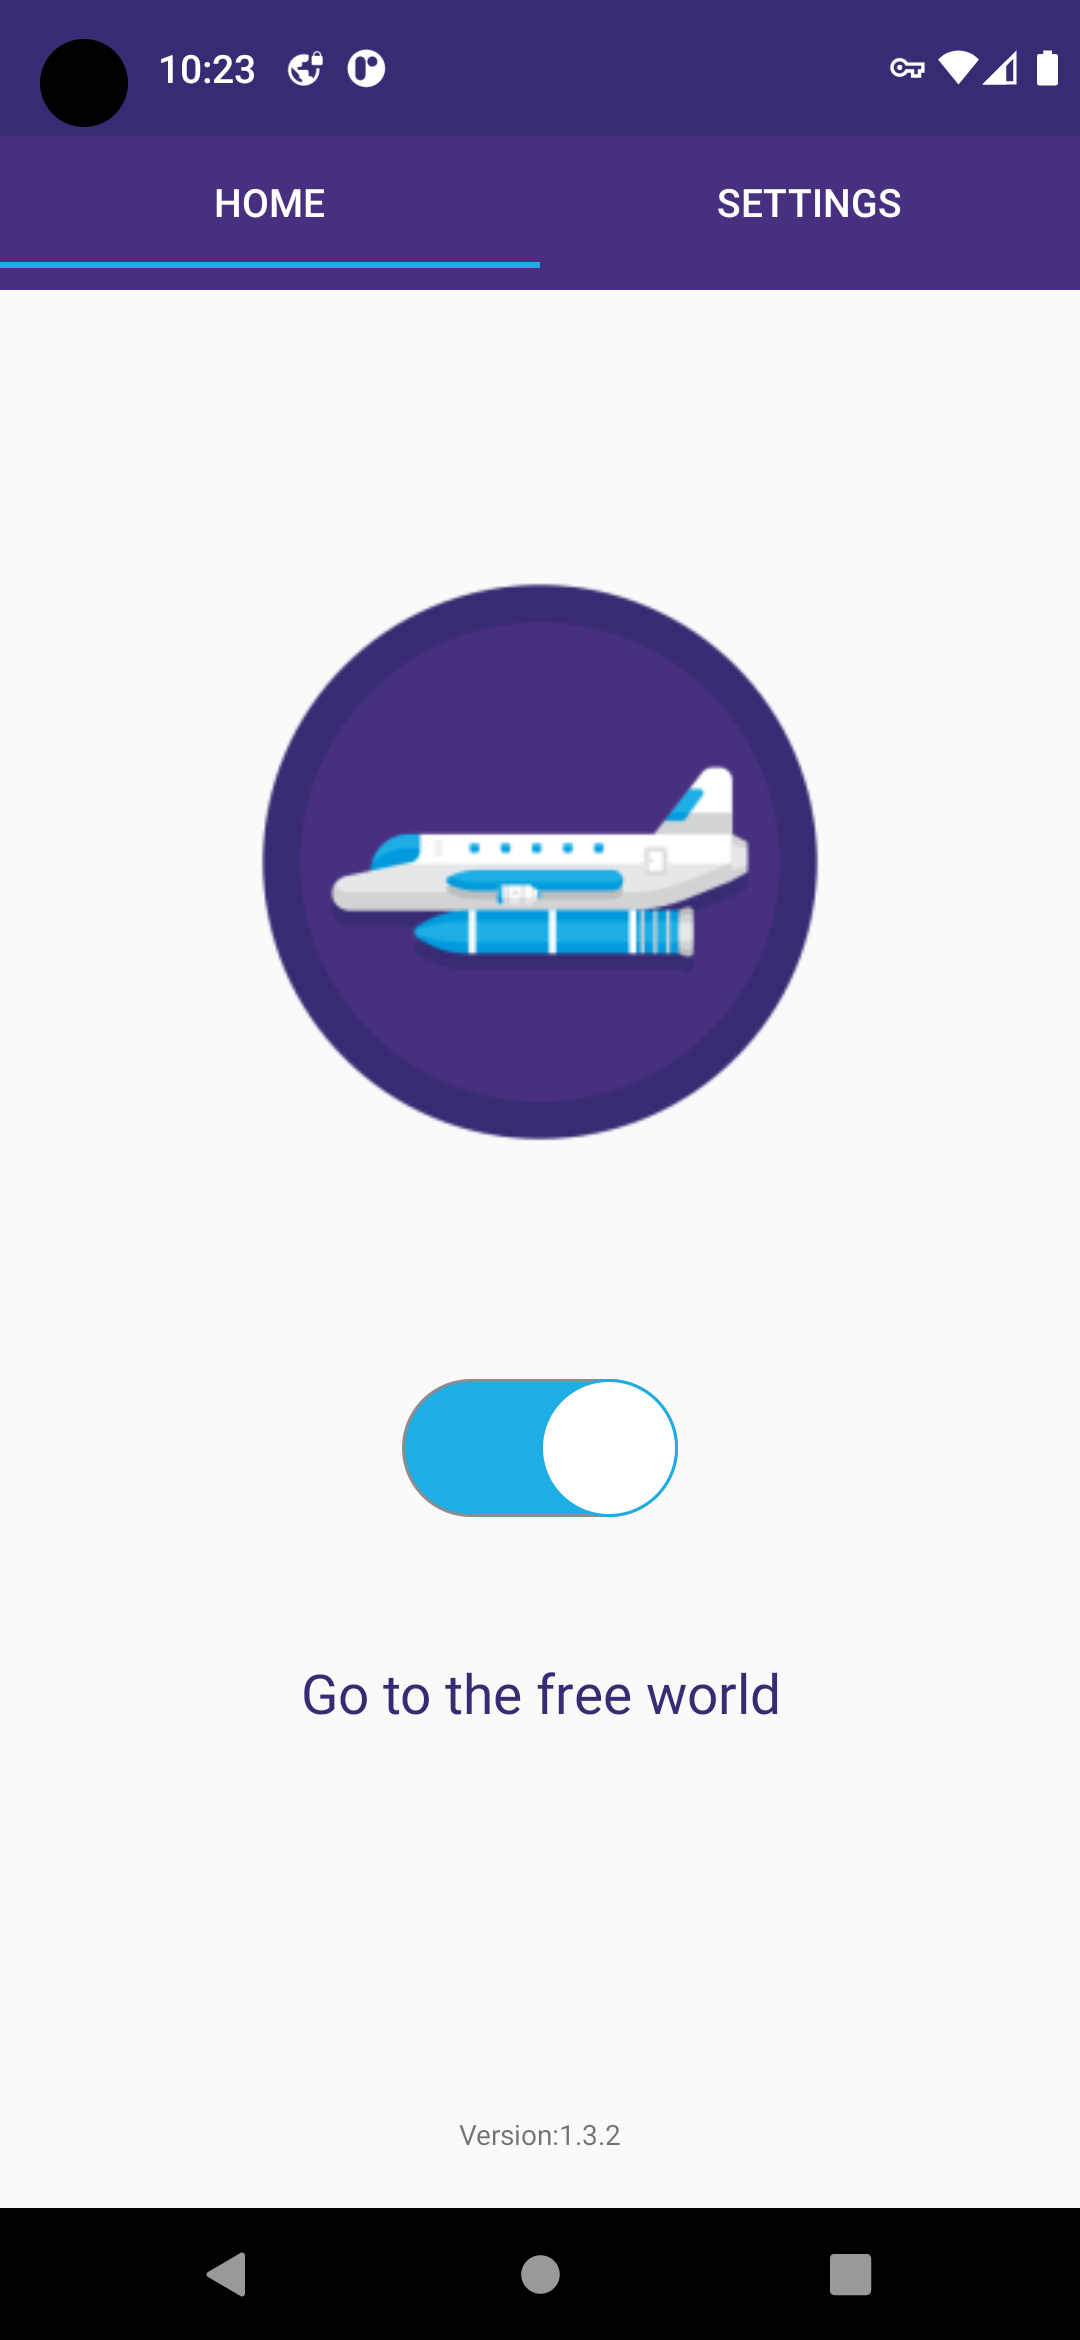
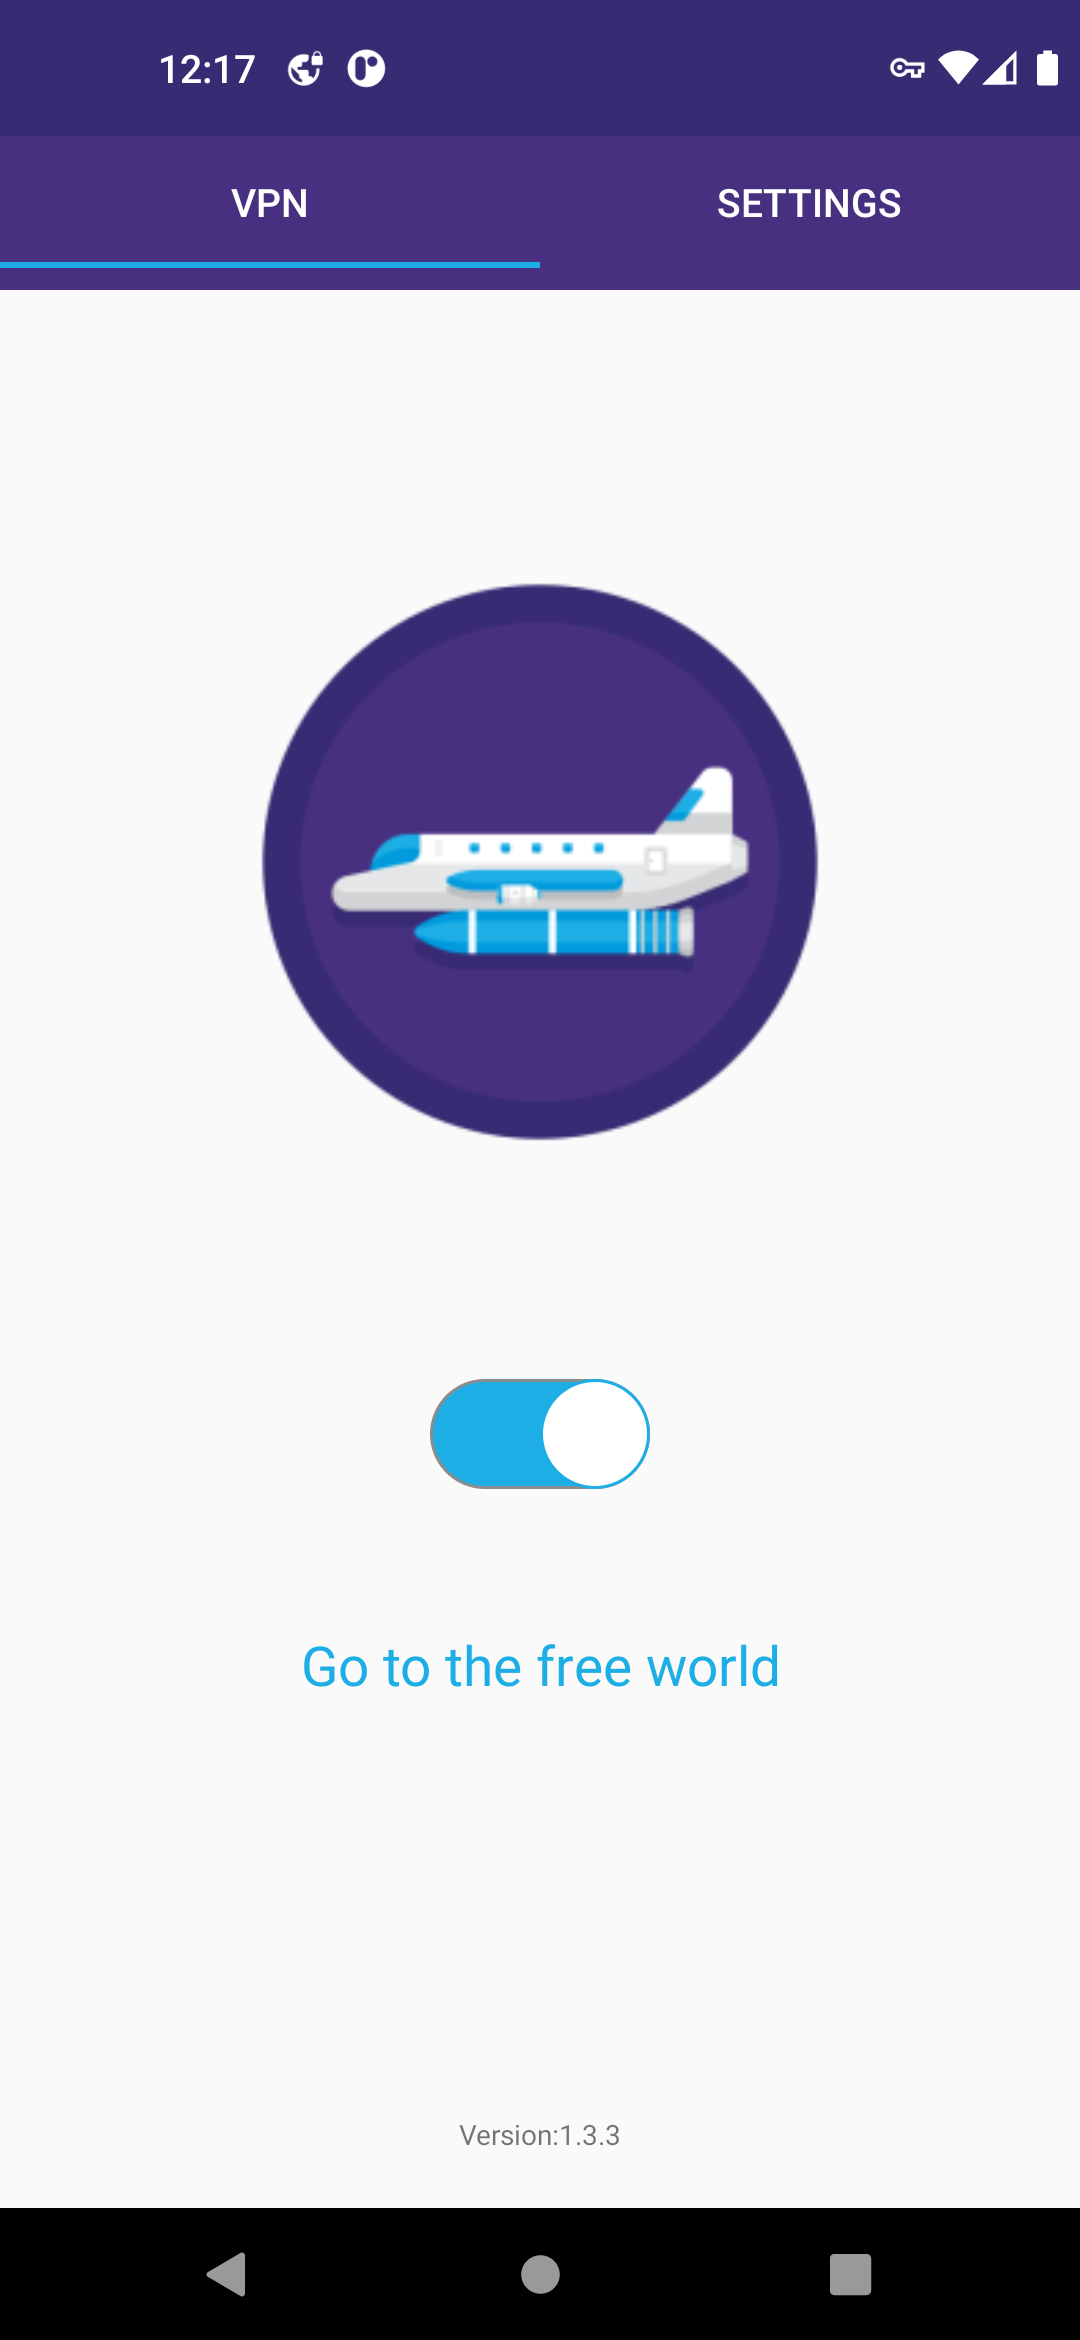
update ui

diff --git a/app/src/main/java/com/netbyte/vtunnel/activity/MainActivity.java b/app/src/main/java/com/netbyte/vtunnel/activity/MainActivity.java
@@ -17,7 +17,7 @@ public class MainActivity extends AppCompatActivity implements HomeTab.OnFragmen
         setContentView(R.layout.activity_main);
 
         TabLayout tabLayout = findViewById(R.id.tablayout);
-        tabLayout.addTab(tabLayout.newTab().setText("Home"));
+        tabLayout.addTab(tabLayout.newTab().setText("VPN"));
         tabLayout.addTab(tabLayout.newTab().setText("Settings"));
         tabLayout.setTabGravity(TabLayout.GRAVITY_FILL);
 
